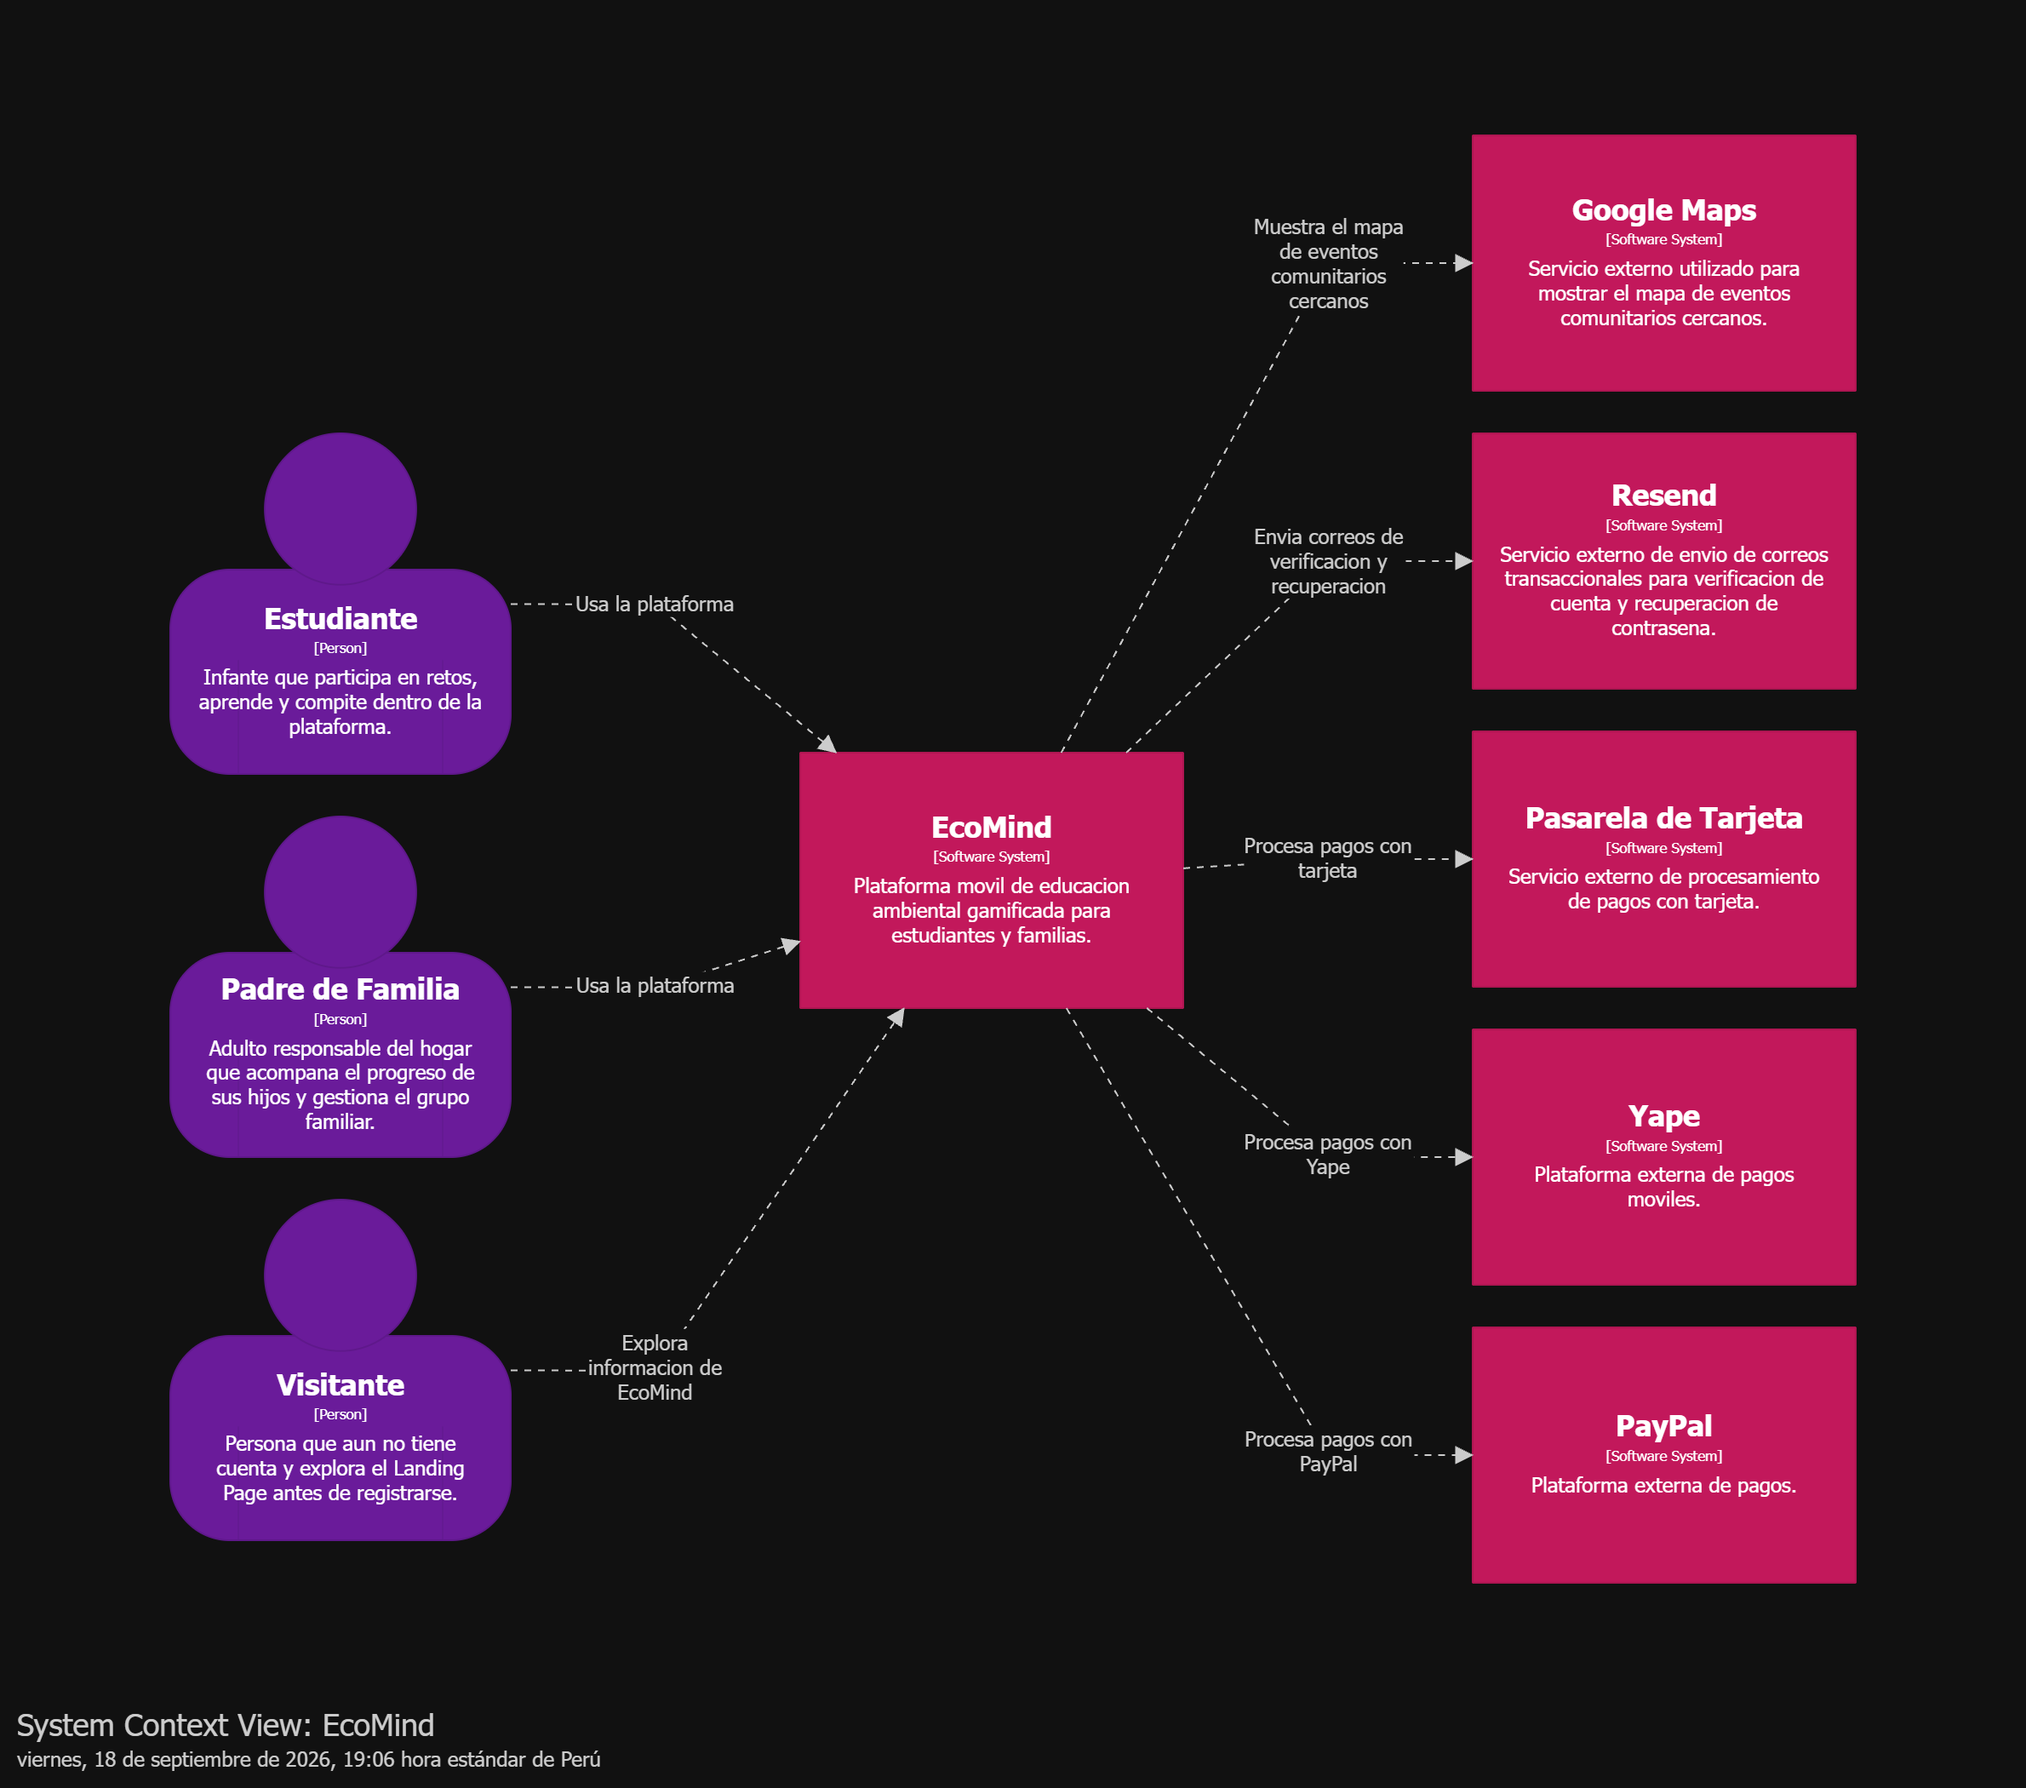
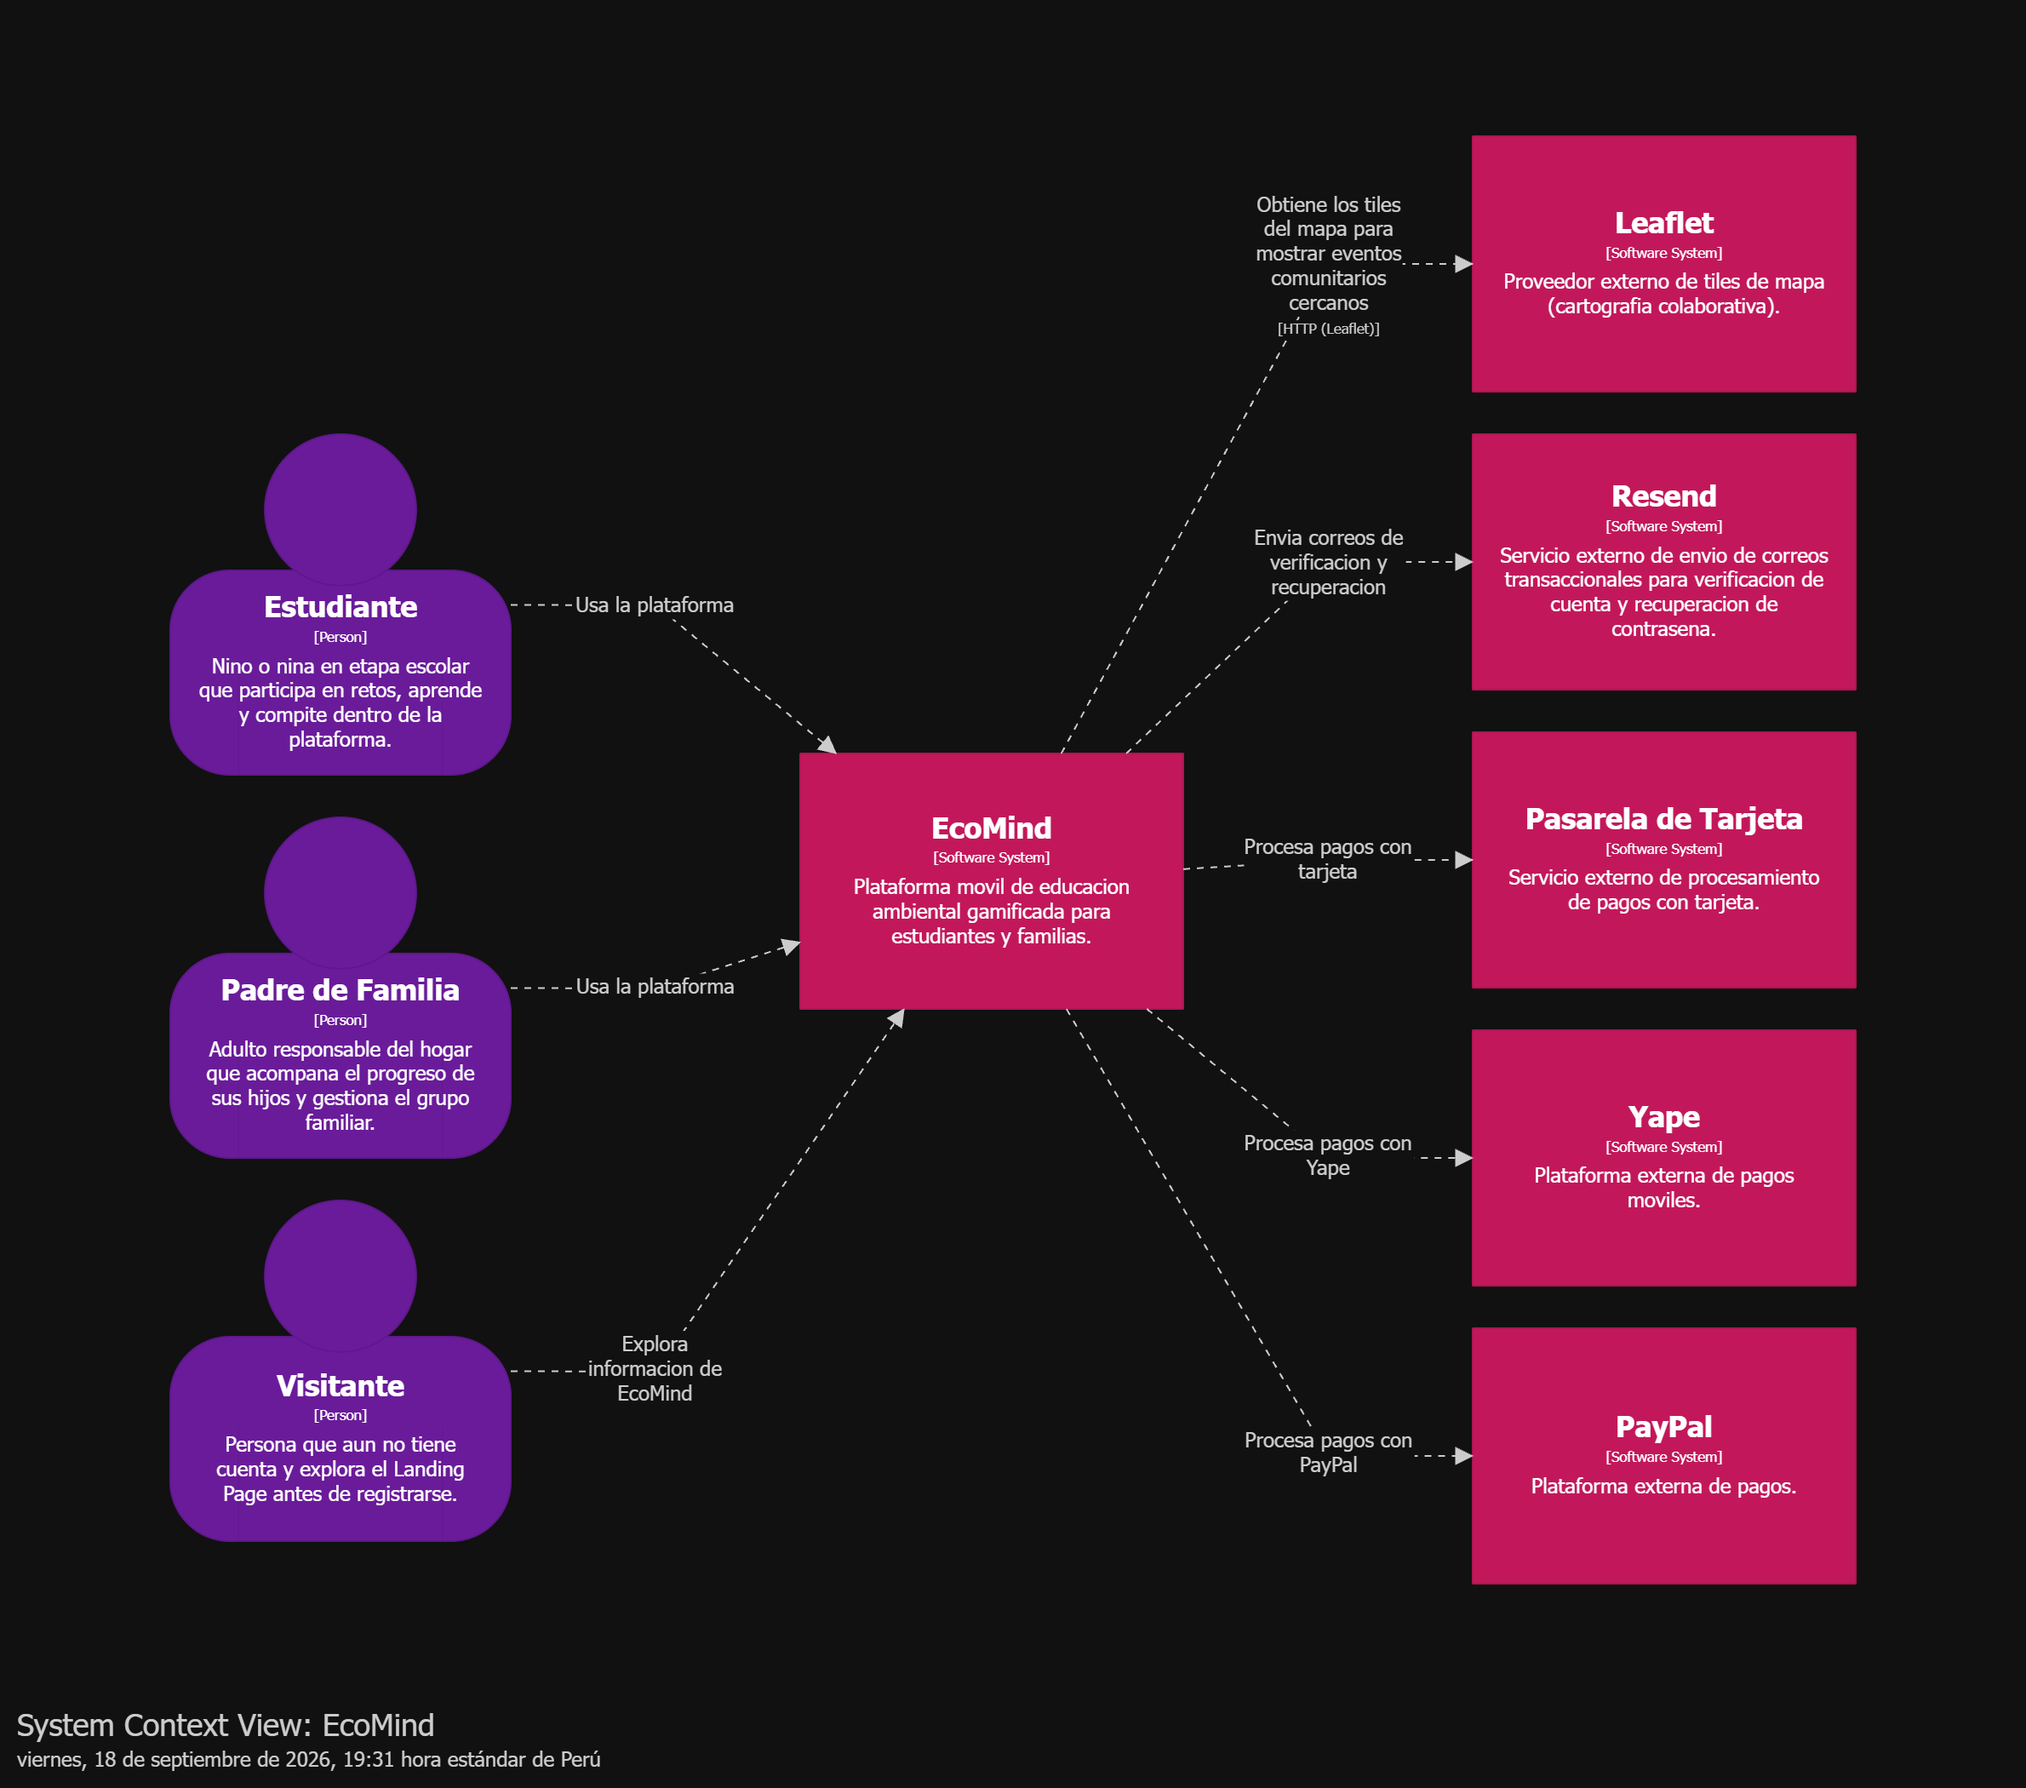
fix(chapter-ii): update c4 diagrams.

diff --git a/README.md b/README.md
@@ -4012,7 +4012,7 @@ La elaboración se realizó de manera iterativa mediante los pasos de Context Ov
 
 En esta sección se presenta el Context Diagram de EcoMind, elaborado con C4 Model y Structurizr DSL. El diagrama muestra a EcoMind como un único sistema de software rodeado por los usuarios y los sistemas externos con los que interactúa, sin exponer aún su descomposición interna.
 
-Los usuarios de EcoMind son el estudiante y el padre de familia, quienes acceden a la plataforma ya registrados, y el visitante, que llega primero al Landing Page antes de crear una cuenta. EcoMind se comunica con cuatro sistemas externos: el servicio de correo Resend, utilizado para enviar la verificación de cuenta y la recuperación de contraseña; las pasarelas de pago con tarjeta, Yape y PayPal, utilizadas para las compras dentro de Monetization; y Google Maps, utilizado para mostrar en un mapa los eventos comunitarios cercanos a la ubicación del usuario.
+Los usuarios de EcoMind son el estudiante y el padre de familia, quienes acceden a la plataforma ya registrados, y el visitante, que llega primero al Landing Page antes de crear una cuenta. EcoMind se comunica con cuatro sistemas externos: el servicio de correo Resend, utilizado para enviar la verificación de cuenta y la recuperación de contraseña; las pasarelas de pago con tarjeta, Yape y PayPal, utilizadas para las compras dentro de Monetization y Leaflet utilizado para mostrar en un mapa los eventos comunitarios cercanos a la ubicación del usuario.
 
 ![ContextEcoMind](assets/img/figures/ContextEcoMind.png)
 
